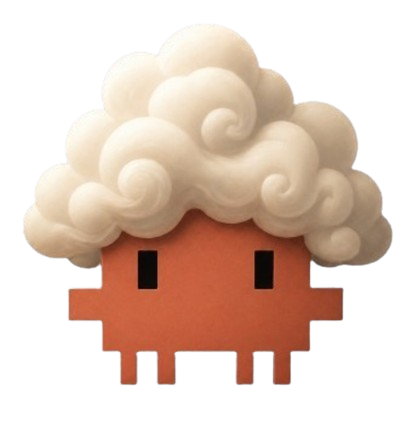
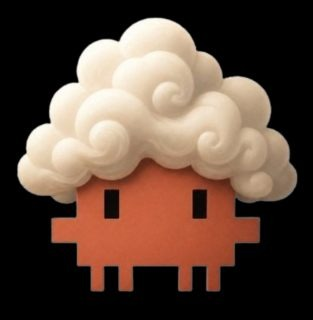
design: 전역 파비콘 고정 선언, 구글 검색 대비 SEO 타이틀 개편 및 어시스턴트 추론 메시지 속도 대폭 지연

diff --git a/app/layout.tsx b/app/layout.tsx
@@ -52,17 +52,22 @@ const chunkReloadGuard = `
 
 export const metadata: Metadata = {
   metadataBase: new URL("https://clcocloud.kr"),
-  title: "생각은 가볍게, 빌드는 완벽하게 - 클코클라우드",
+  title: "클코클라우드 - 생각은 가볍게, 빌드는 완벽하게.",
   description: siteDescription,
   keywords: ["클코클라우드", "클로드코드", "Claude Code", "API 잔액 충전", "클로드코드 CLI", "클로드코드 API"],
+  icons: {
+    icon: "/icon.png",
+    shortcut: "/icon.png",
+    apple: "/icon.png"
+  },
   openGraph: {
-    title: "생각은 가볍게, 빌드는 완벽하게 - 클코클라우드",
+    title: "클코클라우드 - 생각은 가볍게, 빌드는 완벽하게.",
     description: siteDescription,
     images: ["/main-logo.png"]
   },
   twitter: {
     card: "summary_large_image",
-    title: "생각은 가볍게, 빌드는 완벽하게 - 클코클라우드",
+    title: "클코클라우드 - 생각은 가볍게, 빌드는 완벽하게.",
     description: siteDescription,
     images: ["/main-logo.png"]
   }

diff --git a/components/assistant/TypingPulse.tsx b/components/assistant/TypingPulse.tsx
@@ -30,8 +30,8 @@ export function TypingPulse({ hasImages = false }: { hasImages?: boolean }) {
 
   useEffect(() => {
     let isMounted = true;
-    // 묵직한 지연 시간을 두어 실제 인공지능이 정밀하게 심사숙고하는 듯한 추론을 연출합니다.
-    const stepDelays = [4000, 4800, 5800, 5200, 4500, 4500];
+    // 훨씬 더 느린 지연 시간(6초~8.5초대)을 두어 실제 인공지능이 아주 정밀하게 심사숙고하는 듯한 묵직한 추론을 연출합니다.
+    const stepDelays = [6000, 7500, 8500, 8000, 7000, 7000];
 
     const runNextStep = (currentIndex: number) => {
       if (currentIndex >= steps.length - 1 || !isMounted) return;